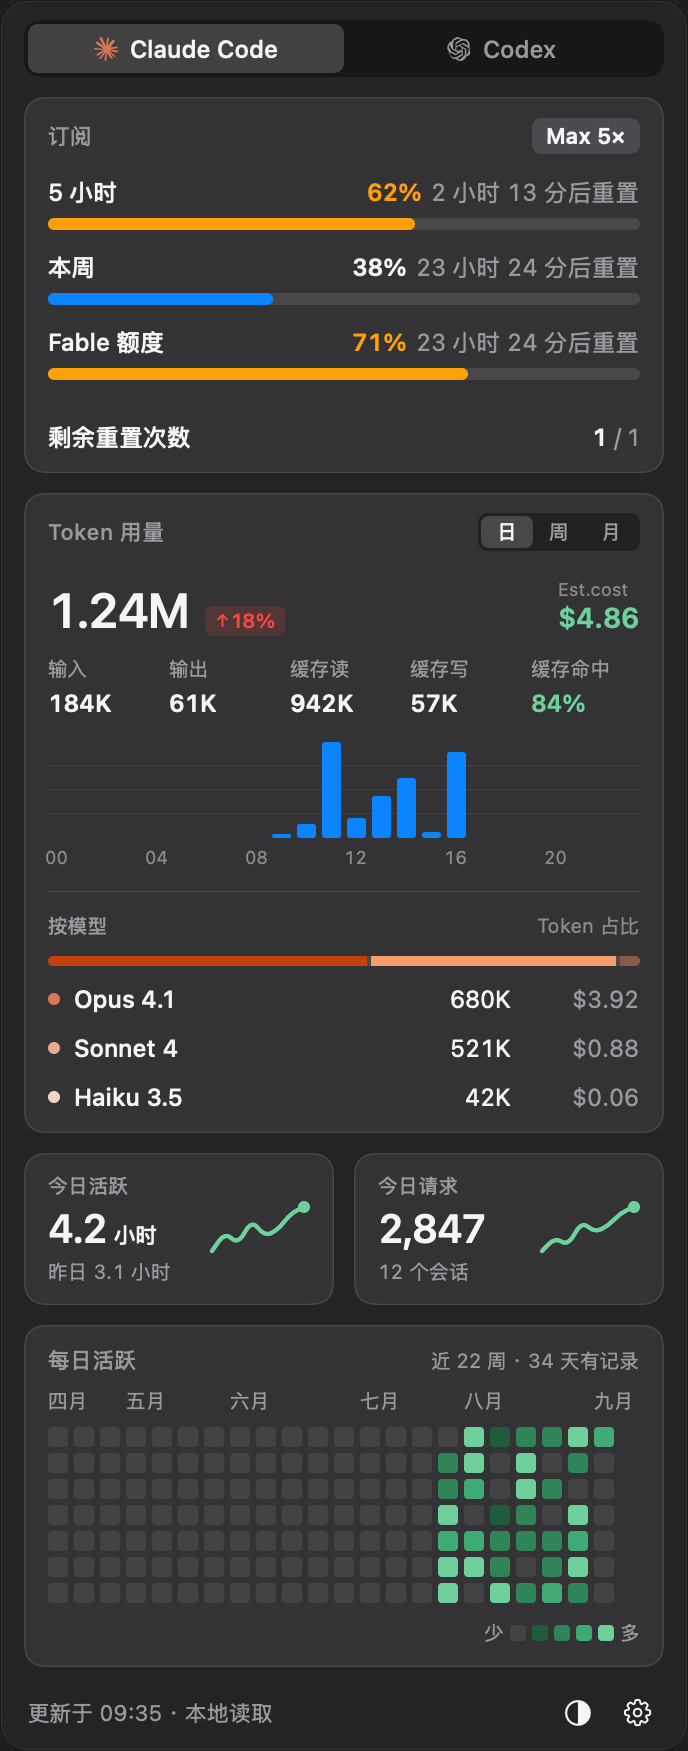
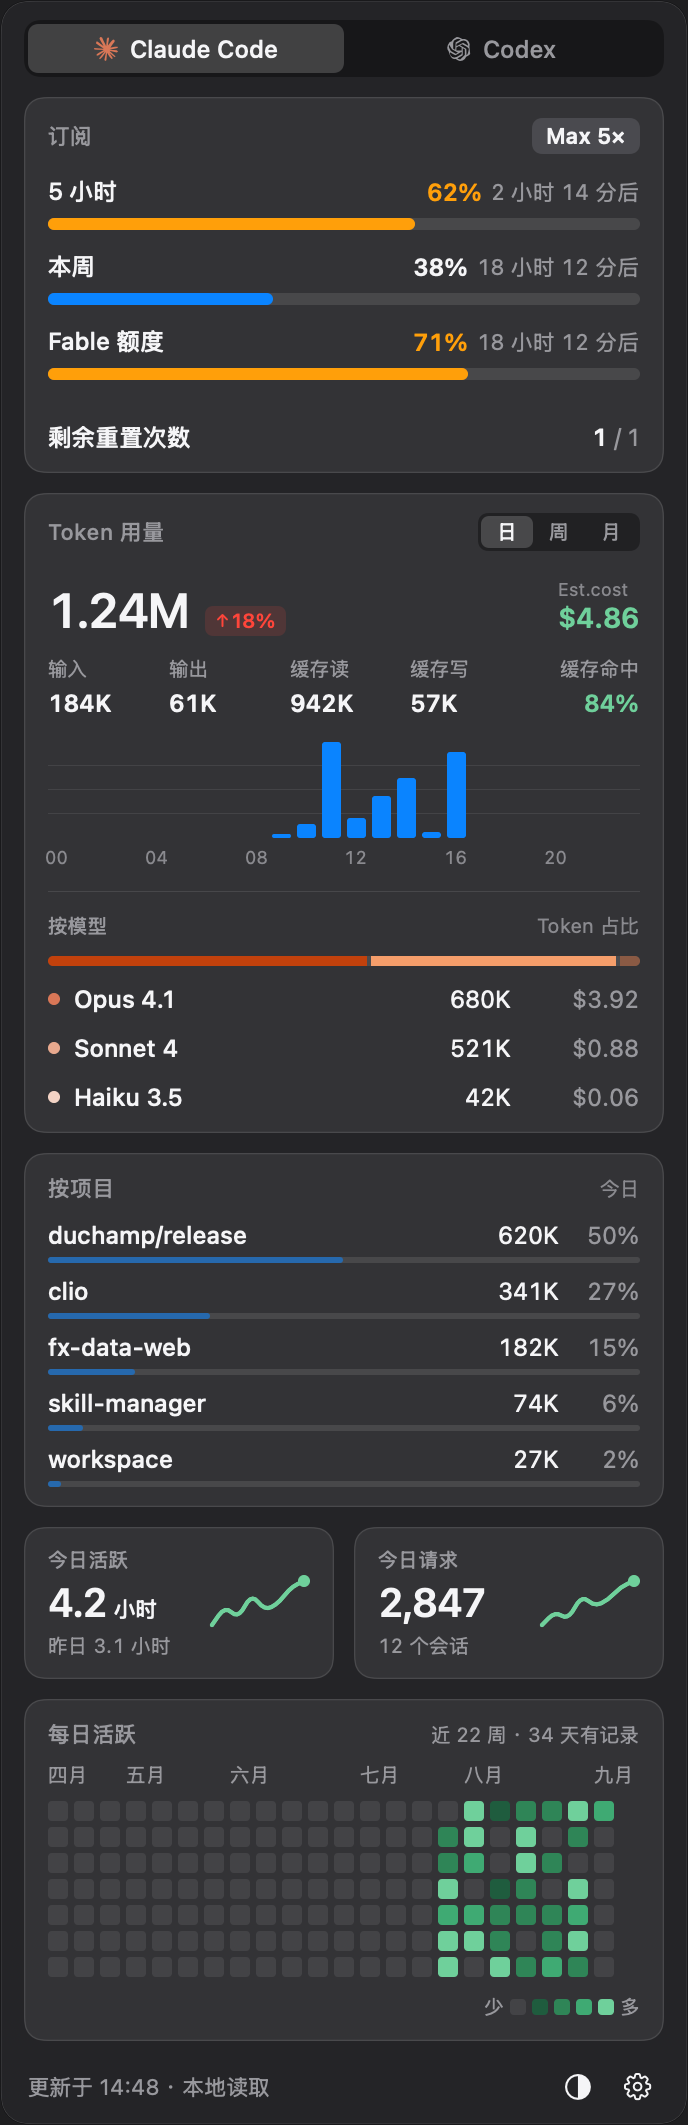
新增按项目的用量卡片
现有卡片只有时间维度和模型维度，答不上「这段时间的额度被哪个仓库用掉了」。
Claude Code 的每条回复记录都带 cwd，按它聚合即可，扫描成本不变。worktree
目录显示成「仓库/工作树」，否则只剩一个分支名认不出属于谁。Codex 的日志不
记目录，那一侧的列表为空，卡片不出现。

diff --git a/Sources/Clio/Data/DashboardBuilder.swift b/Sources/Clio/Data/DashboardBuilder.swift
@@ -33,6 +33,7 @@ enum DashboardBuilder {
         var tokenTrend: [Granularity: Double] = [:]
         var buckets: [Granularity: [Bucket]] = [:]
         var models: [Granularity: [ModelUsage]] = [:]
+        var projects: [Granularity: [ProjectUsage]] = [:]
 
         for granularity in Granularity.allCases {
             let current = range(for: granularity, containing: now, calendar: calendar)
@@ -48,6 +49,7 @@ enum DashboardBuilder {
             tokenTrend[granularity] = change(from: previousCounts.total, to: currentCounts.total)
             buckets[granularity] = bucket(inCurrent, granularity: granularity, range: current, calendar: calendar)
             models[granularity] = breakdown(inCurrent, prices: prices)
+            projects[granularity] = projectBreakdown(inCurrent, prices: prices)
         }
 
         return ToolSnapshot(
@@ -62,6 +64,7 @@ enum DashboardBuilder {
             tokenTrend: tokenTrend,
             buckets: buckets,
             models: models,
+            projects: projects,
             dailyTokens: dailyTokens(sorted, history: history, now: now, calendar: calendar),
             activity: activity(sorted, now: now, calendar: calendar),
             updatedAt: now
@@ -155,6 +158,36 @@ enum DashboardBuilder {
                               tokens: $0.value,
                               cost: spend[$0.key] ?? 0) }
             .sorted { $0.tokens > $1.tokens }
+    }
+
+    /// Which working directories the period's tokens went to. Events without
+    /// one — Codex logs record no directory — are left out entirely rather than
+    /// pooled under a stand-in name.
+    private static func projectBreakdown(_ events: [UsageEvent], prices: PriceTable) -> [ProjectUsage] {
+        var tokens: [String: Int] = [:]
+        var spend: [String: Double] = [:]
+        for event in events where !event.project.isEmpty {
+            tokens[event.project, default: 0] += event.counts.total
+            spend[event.project, default: 0] += prices.cost(event.counts, model: event.model) ?? 0
+        }
+        return tokens
+            .map { ProjectUsage(path: $0.key,
+                                displayName: projectName(for: $0.key),
+                                tokens: $0.value,
+                                cost: spend[$0.key] ?? 0) }
+            .sorted { $0.tokens > $1.tokens }
+    }
+
+    /// The directory's own name, prefixed with the repository when it is a
+    /// worktree: "release" alone would not say which repository it belongs to.
+    private static func projectName(for path: String) -> String {
+        let parts = path.split(separator: "/")
+        guard let last = parts.last else { return path }
+        if parts.count >= 2, let repo = parts[parts.count - 2].split(separator: ".").first,
+           parts[parts.count - 2].hasSuffix(".worktrees") {
+            return "\(repo)/\(last)"
+        }
+        return String(last)
     }
 
     /// Tokens per calendar day for the last 22 weeks — the heatmap's span.

diff --git a/Sources/Clio/View/ProjectCard.swift b/Sources/Clio/View/ProjectCard.swift
@@ -1,0 +1,80 @@
+import SwiftUI
+
+/// Where the period's tokens went, by working directory. The bar behind each
+/// row carries the share, so the list needs no separate share bar.
+struct ProjectCard: View {
+    @Environment(\.theme) private var theme
+    var projects: [ProjectUsage]
+    var granularity: Granularity
+
+    /// Anything under a percent is noise in a list meant to answer where the
+    /// period's tokens went; the largest project is kept whatever its share, so
+    /// a quiet period still shows something.
+    private var shown: [ProjectUsage] {
+        let significant = projects.filter { Double($0.tokens) / Double(total) >= 0.01 }
+        return Array((significant.isEmpty ? projects : significant).prefix(5))
+    }
+    private var total: Int { max(1, projects.reduce(0) { $0 + $1.tokens }) }
+
+    private var periodTitle: String {
+        switch granularity {
+        case .day: return "今日"
+        case .week: return "本周"
+        case .month: return "本月"
+        }
+    }
+
+    var body: some View {
+        Card(spacing: 8) {
+            HStack(alignment: .firstTextBaseline) {
+                CardTitle(text: "按项目")
+                Spacer()
+                Text(periodTitle)
+                    .font(.system(size: 10))
+                    .foregroundStyle(theme.textTertiary)
+            }
+            .frame(height: 15)
+
+            VStack(spacing: 6) {
+                ForEach(shown) { project in
+                    row(project)
+                }
+            }
+        }
+    }
+
+    private func row(_ project: ProjectUsage) -> some View {
+        let share = Double(project.tokens) / Double(total)
+        return VStack(spacing: 3) {
+            HStack(spacing: 8) {
+                Text(project.displayName)
+                    .font(.system(size: 12, weight: .medium))
+                    .foregroundStyle(theme.textPrimary)
+                    .lineLimit(1)
+                    .truncationMode(.middle)
+                Spacer(minLength: 4)
+                Text(Format.compactNarrow(project.tokens))
+                    .font(.system(size: 12))
+                    .monospacedDigit()
+                    .foregroundStyle(theme.textPrimary)
+                    .frame(width: 56, alignment: .trailing)
+                Text(Format.percent(share))
+                    .font(.system(size: 12))
+                    .monospacedDigit()
+                    .foregroundStyle(theme.textSecondary)
+                    .frame(width: 32, alignment: .trailing)
+            }
+            .frame(height: 16)
+
+            GeometryReader { geo in
+                ZStack(alignment: .leading) {
+                    Capsule().fill(theme.track)
+                    Capsule()
+                        .fill(theme.accent.opacity(0.55))
+                        .frame(width: max(2, geo.size.width * share))
+                }
+            }
+            .frame(height: 3)
+        }
+    }
+}

diff --git a/Sources/Clio/App/DesignSample.swift b/Sources/Clio/App/DesignSample.swift
@@ -31,6 +31,7 @@ enum DesignSample {
                 ModelUsage(model: "gpt-5", displayName: "gpt-5", tokens: 206_000, cost: 0.38),
                 ModelUsage(model: "o4-mini", displayName: "o4-mini", tokens: 44_000, cost: 0.04),
             ]],
+            projects: [:],
             dailyTokens: heatmap(now: now),
             activity: ActivitySummary(activeHours: 2.6, previousActiveHours: 3.4,
                                       requests: 1_204, sessions: 7,
@@ -77,6 +78,14 @@ enum DesignSample {
                 ModelUsage(model: "opus-4-1", displayName: "Opus 4.1", tokens: 680_000, cost: 3.92),
                 ModelUsage(model: "sonnet-4", displayName: "Sonnet 4", tokens: 521_000, cost: 0.88),
                 ModelUsage(model: "haiku-3-5", displayName: "Haiku 3.5", tokens: 42_000, cost: 0.06),
+            ]],
+            projects: [.day: [
+                ProjectUsage(path: "/w/duchamp.worktrees/release", displayName: "duchamp/release",
+                             tokens: 620_000, cost: 2.42),
+                ProjectUsage(path: "/w/clio", displayName: "clio", tokens: 341_000, cost: 1.33),
+                ProjectUsage(path: "/w/fx-data-web", displayName: "fx-data-web", tokens: 182_000, cost: 0.71),
+                ProjectUsage(path: "/w/skill-manager", displayName: "skill-manager", tokens: 74_000, cost: 0.29),
+                ProjectUsage(path: "/w", displayName: "workspace", tokens: 26_610, cost: 0.11),
             ]],
             dailyTokens: heatmap(now: now),
             activity: ActivitySummary(activeHours: 4.2, previousActiveHours: 3.1,

diff --git a/Sources/Clio/Model/Usage.swift b/Sources/Clio/Model/Usage.swift
@@ -65,6 +65,9 @@ struct UsageEvent {
     /// The session the response belongs to. Empty for sources that do not
     /// record one, which then count as a single session.
     var sessionID: String = ""
+    /// Working directory the response was produced in. Empty for sources whose
+    /// logs do not record one; those events fall outside the project split.
+    var project: String = ""
 }
 
 /// The two summary cards above the heat map.
@@ -109,6 +112,15 @@ enum Granularity: String, CaseIterable, Identifiable {
         case .month: return "月"
         }
     }
+}
+
+struct ProjectUsage: Identifiable {
+    let path: String
+    let displayName: String
+    let tokens: Int
+    let cost: Double
+
+    var id: String { path }
 }
 
 struct ModelUsage: Identifiable {
@@ -174,6 +186,8 @@ struct ToolSnapshot {
     let tokenTrend: [Granularity: Double]
     let buckets: [Granularity: [Bucket]]
     let models: [Granularity: [ModelUsage]]
+    /// Empty for a tool whose logs carry no working directory.
+    let projects: [Granularity: [ProjectUsage]]
     let dailyTokens: [Date: Int]
     let activity: ActivitySummary
     let updatedAt: Date

diff --git a/Sources/Clio/App/DashboardDump.swift b/Sources/Clio/App/DashboardDump.swift
@@ -46,6 +46,14 @@ enum DashboardDump {
                 let name = model.displayName.padding(toLength: 14, withPad: " ", startingAt: 0)
                 print("  \(name) \(Format.compact(model.tokens))  \(Format.money(model.cost))  [\(model.model)]")
             }
+            let projects = snapshot.projects[.day] ?? []
+            if !projects.isEmpty {
+                print("今日按项目:")
+                for project in projects.prefix(8) {
+                    let name = project.displayName.padding(toLength: 22, withPad: " ", startingAt: 0)
+                    print("  \(name) \(Format.compact(project.tokens))  \(Format.money(project.cost))")
+                }
+            }
             let active = snapshot.dailyTokens.values.filter { $0 > 0 }.count
             print("热力图: 近 22 周内 \(active) 天有记录")
         }

diff --git a/Sources/Clio/View/PanelView.swift b/Sources/Clio/View/PanelView.swift
@@ -84,6 +84,9 @@ struct PanelView: View {
             SubscriptionCard(snapshot: snapshot,
                              showsHeader: store.dashboard.snapshots.count > 1)
             UsageCard(snapshot: snapshot, granularity: $granularity)
+            if let projects = snapshot.projects[granularity], !projects.isEmpty {
+                ProjectCard(projects: projects, granularity: granularity)
+            }
             ActivityCards(activity: snapshot.activity)
             HeatmapCard(dailyTokens: snapshot.dailyTokens)
             footer(snapshot)

diff --git a/Sources/Clio/Data/ClaudeCodeReader.swift b/Sources/Clio/Data/ClaudeCodeReader.swift
@@ -79,7 +79,8 @@ final class ClaudeCodeReader {
                                  model: model,
                                  counts: counts,
                                  dedupeKey: key,
-                                 sessionID: object["sessionId"] as? String ?? "")
+                                 sessionID: object["sessionId"] as? String ?? "",
+                                 project: object["cwd"] as? String ?? "")
     }
 }
 
